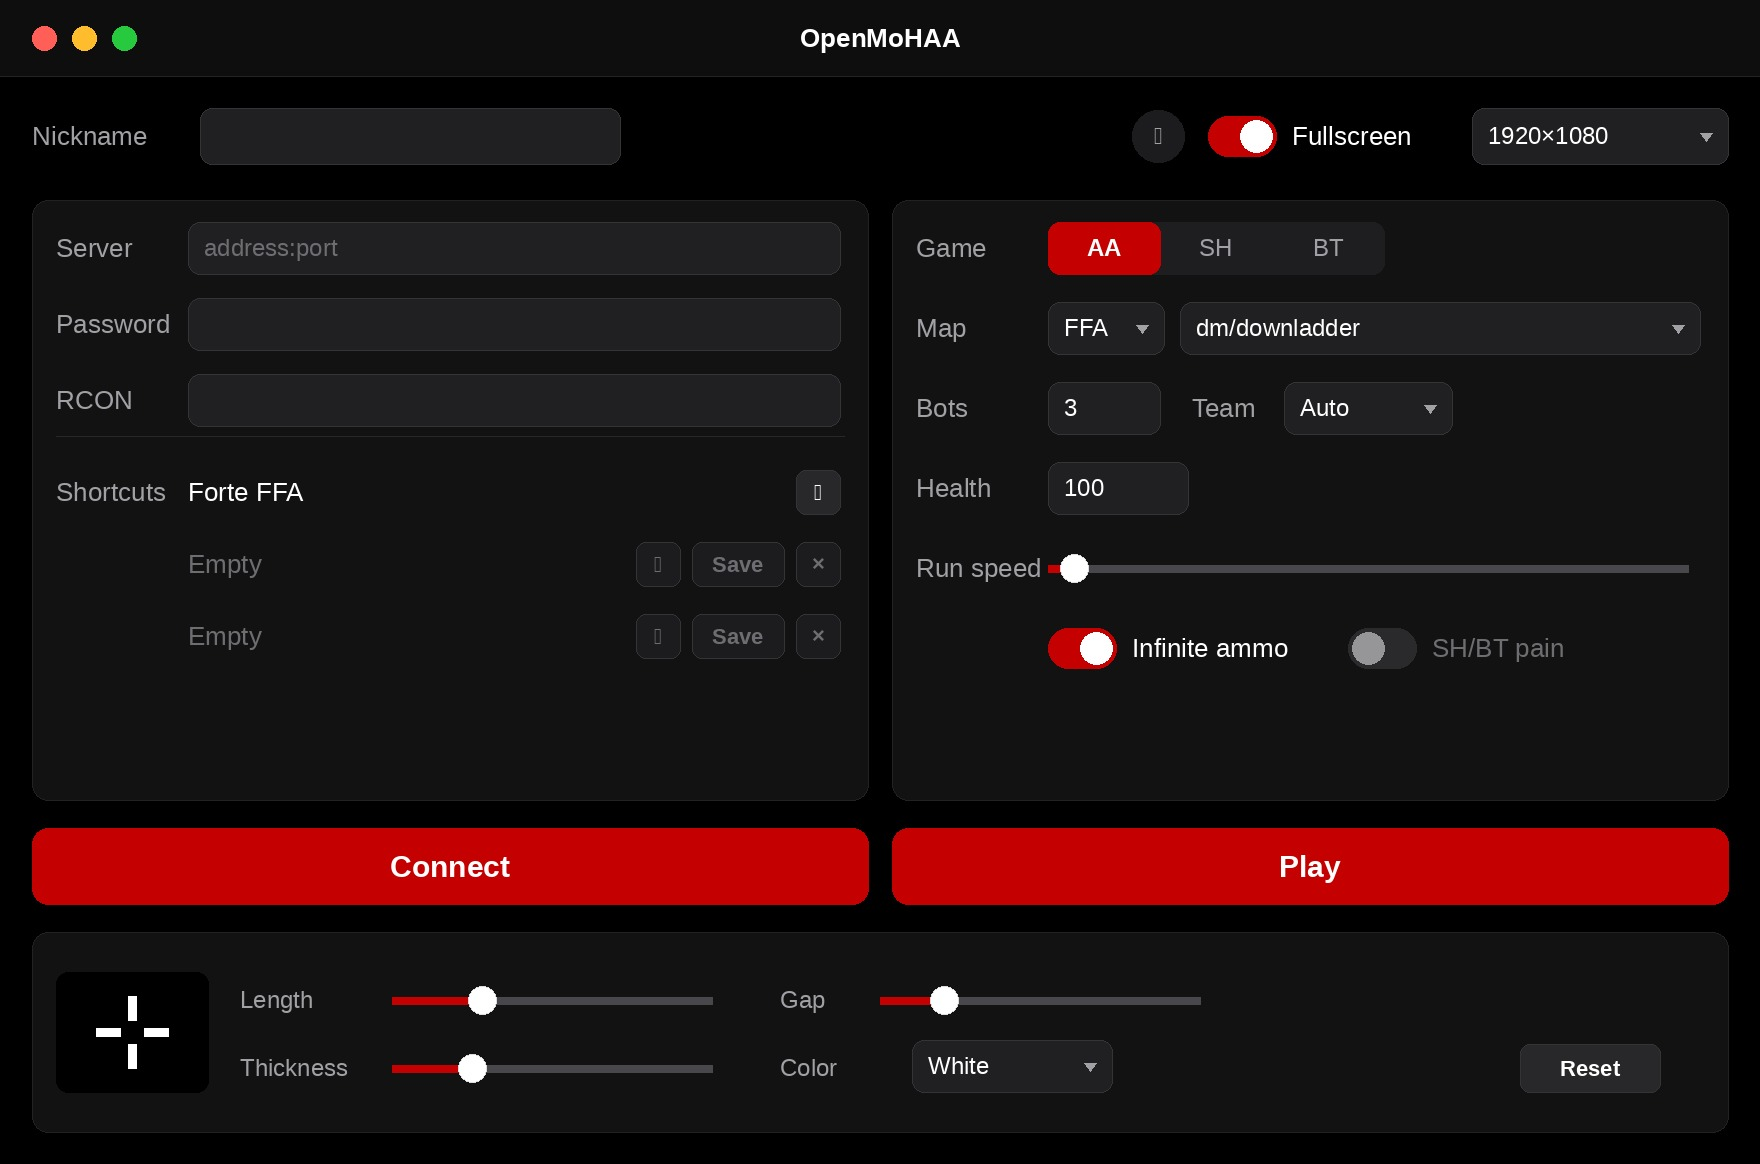
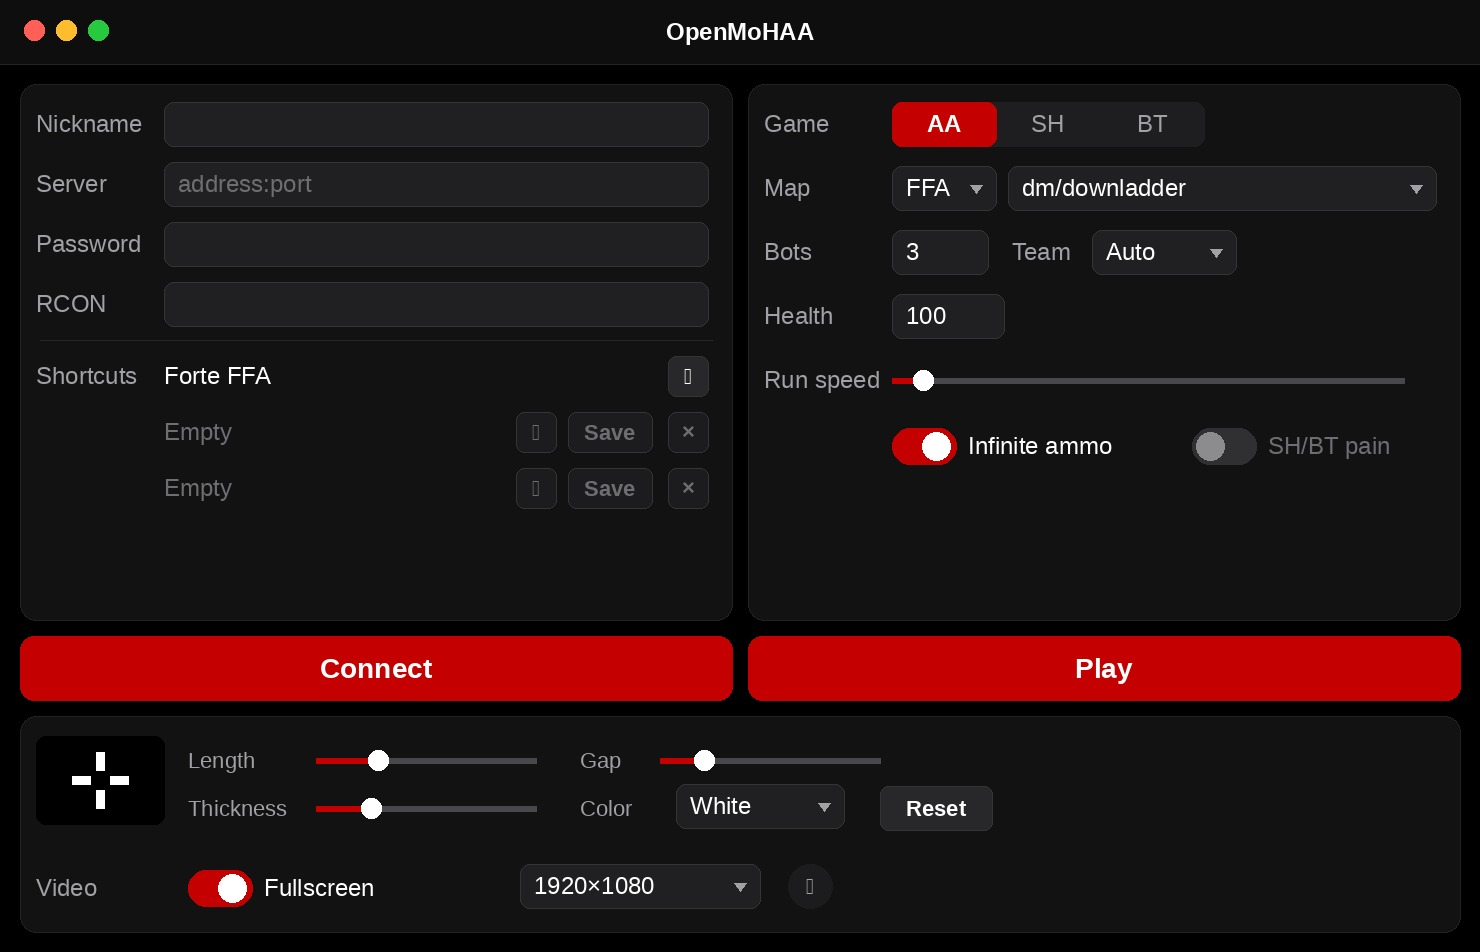
Drop the top bar and tighten the window
Nickname sits with the server. Fullscreen and resolution sit with the
crosshair. The cards are only as tall as their rows.

diff --git a/Launcher.swift b/Launcher.swift
@@ -502,28 +502,12 @@ struct LauncherView: View {
     @State private var checkedPaks = false
 
     var body: some View {
-        VStack(spacing: 12) {
-            HStack(spacing: 8) {
-                Text("Nickname").foregroundStyle(.secondary)
-                TextField("", text: $config.name)
-                    .textFieldStyle(.roundedBorder)
-                    .frame(width: 200)
-                Spacer()
-                verifyButton
-                Toggle("Fullscreen", isOn: $config.fullscreen)
-                    .padding(.horizontal, 8)
-                Picker("Resolution", selection: $config.resolution) {
-                    ForEach(resolutions, id: \.self) { Text($0).tag($0) }
-                }
-                .fixedSize()
-            }
-            // fixedSize stretches both cards to the taller one.
-            HStack(alignment: .top, spacing: 12) {
+        VStack(spacing: 8) {
+            HStack(alignment: .top, spacing: 8) {
                 Card { serverRows }
                 Card { botRows }
             }
-            .fixedSize(horizontal: false, vertical: true)
-            HStack(spacing: 12) {
+            HStack(spacing: 8) {
                 LaunchButton(title: "Connect", icon: "bolt.fill") { launch(play: false) }
                     .help("Joins the server in Allied Assault.")
                 LaunchButton(title: "Play", icon: "play.fill") { launch(play: true) }
@@ -531,8 +515,8 @@ struct LauncherView: View {
             }
             Card { crosshairRows }
         }
-        .padding(14)
-        .frame(width: 760)
+        .padding(10)
+        .frame(width: 720)
         .fixedSize()
         .preferredColorScheme(.dark)
         .tint(accent)
@@ -586,6 +570,9 @@ struct LauncherView: View {
     // MARK: Cards
 
     @ViewBuilder private var serverRows: some View {
+        Row("Nickname") {
+            TextField("", text: $config.name).textFieldStyle(.roundedBorder)
+        }
         Row("Server") {
             TextField("address:port", text: $config.address).textFieldStyle(.roundedBorder)
         }
@@ -689,9 +676,9 @@ struct LauncherView: View {
     @ViewBuilder private var crosshairRows: some View {
         HStack(alignment: .center, spacing: 8) {
             CrosshairPreview(config: config)
-                .frame(width: labelWidth, height: 60)
+                .frame(width: labelWidth, height: 44)
                 .background(RoundedRectangle(cornerRadius: 6, style: .continuous).fill(Color.black.opacity(0.85)))
-            Grid(horizontalSpacing: 24, verticalSpacing: 8) {
+            Grid(horizontalSpacing: 16, verticalSpacing: 6) {
                 GridRow {
                     LabeledSlider("Length", value: $config.crosshairLength, range: Config.crosshairLengths)
                     LabeledSlider("Gap", value: $config.crosshairGap, range: Config.crosshairGaps)
@@ -707,7 +694,6 @@ struct LauncherView: View {
                         }
                         .labelsHidden()
                         .fixedSize()
-                        Spacer()
                         Button("Reset") {
                             config.crosshairLength = Config.crosshairDefaults.length
                             config.crosshairGap = Config.crosshairDefaults.gap
@@ -719,6 +705,15 @@ struct LauncherView: View {
             }
         }
         .help("Crosshair sizes are in pixels at 1080p and scale with the resolution.")
+        HStack(spacing: 8) {
+            Text("Video").foregroundStyle(.secondary).frame(width: labelWidth, alignment: .trailing)
+            Toggle("Fullscreen", isOn: $config.fullscreen)
+            Picker("Resolution", selection: $config.resolution) {
+                ForEach(resolutions, id: \.self) { Text($0).tag($0) }
+            }
+            .fixedSize()
+            verifyButton
+        }
     }
 
     /// Checks the retail pak files: a grey check until used, a white check
@@ -830,7 +825,7 @@ struct Card<Content: View>: View {
 
     var body: some View {
         VStack(alignment: .leading, spacing: 8) { content }
-        .frame(maxWidth: .infinity, maxHeight: .infinity, alignment: .topLeading)
+        .frame(maxWidth: .infinity, alignment: .topLeading)
         .padding(10)
         .background(RoundedRectangle(cornerRadius: 8, style: .continuous).fill(Color.primary.opacity(0.045)))
         .overlay(
